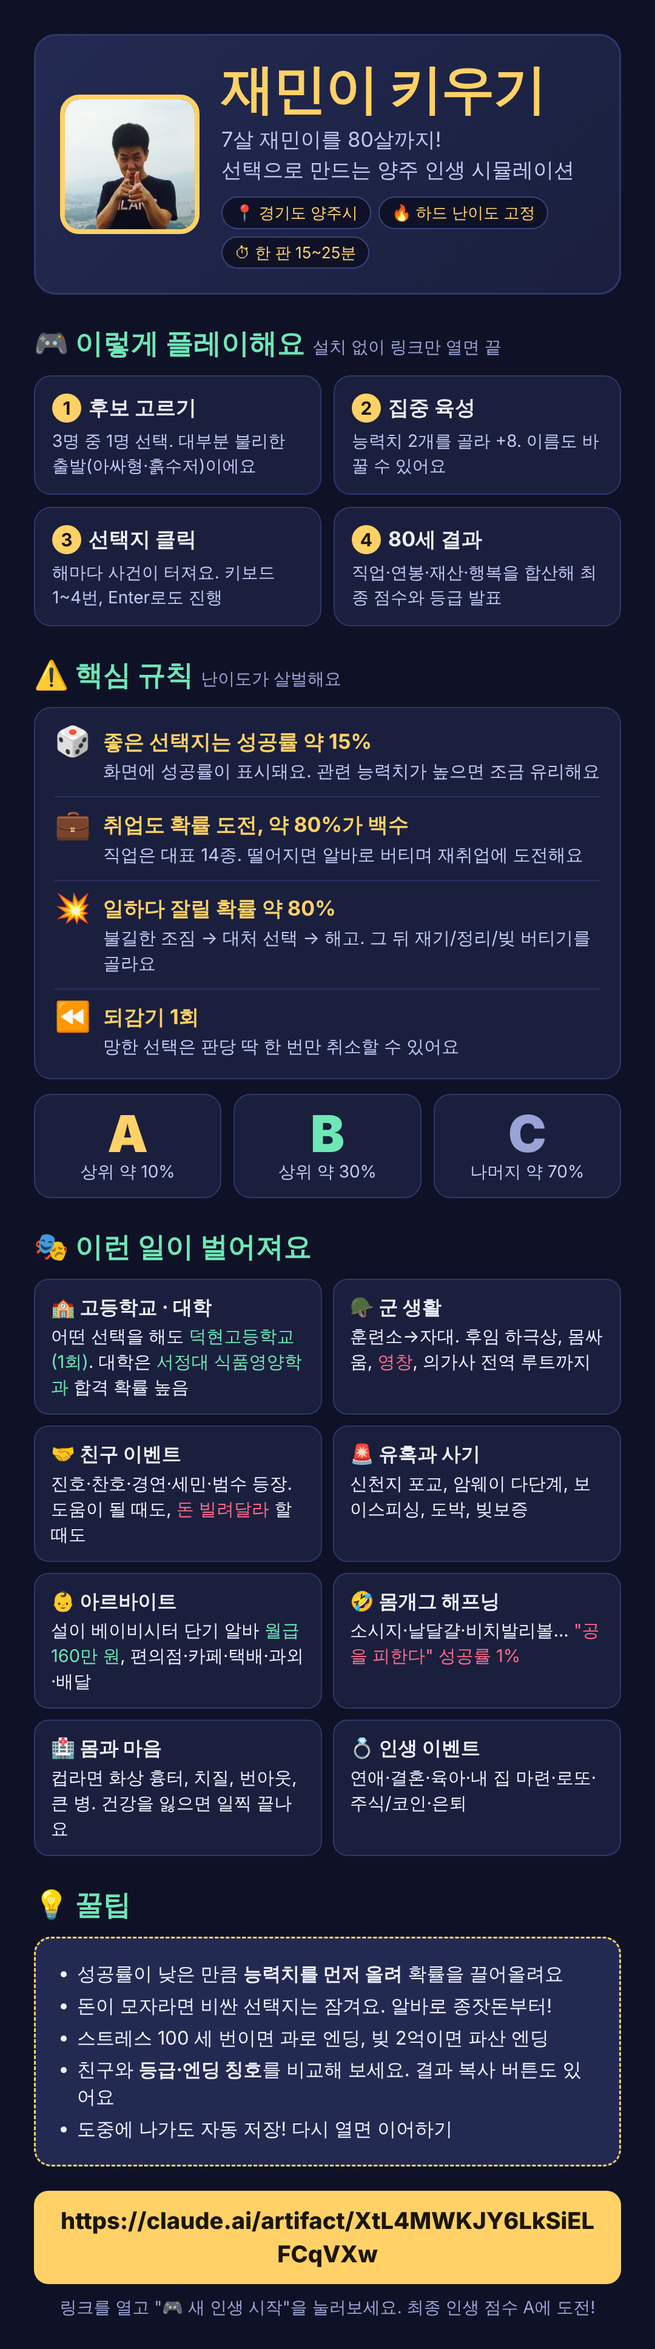
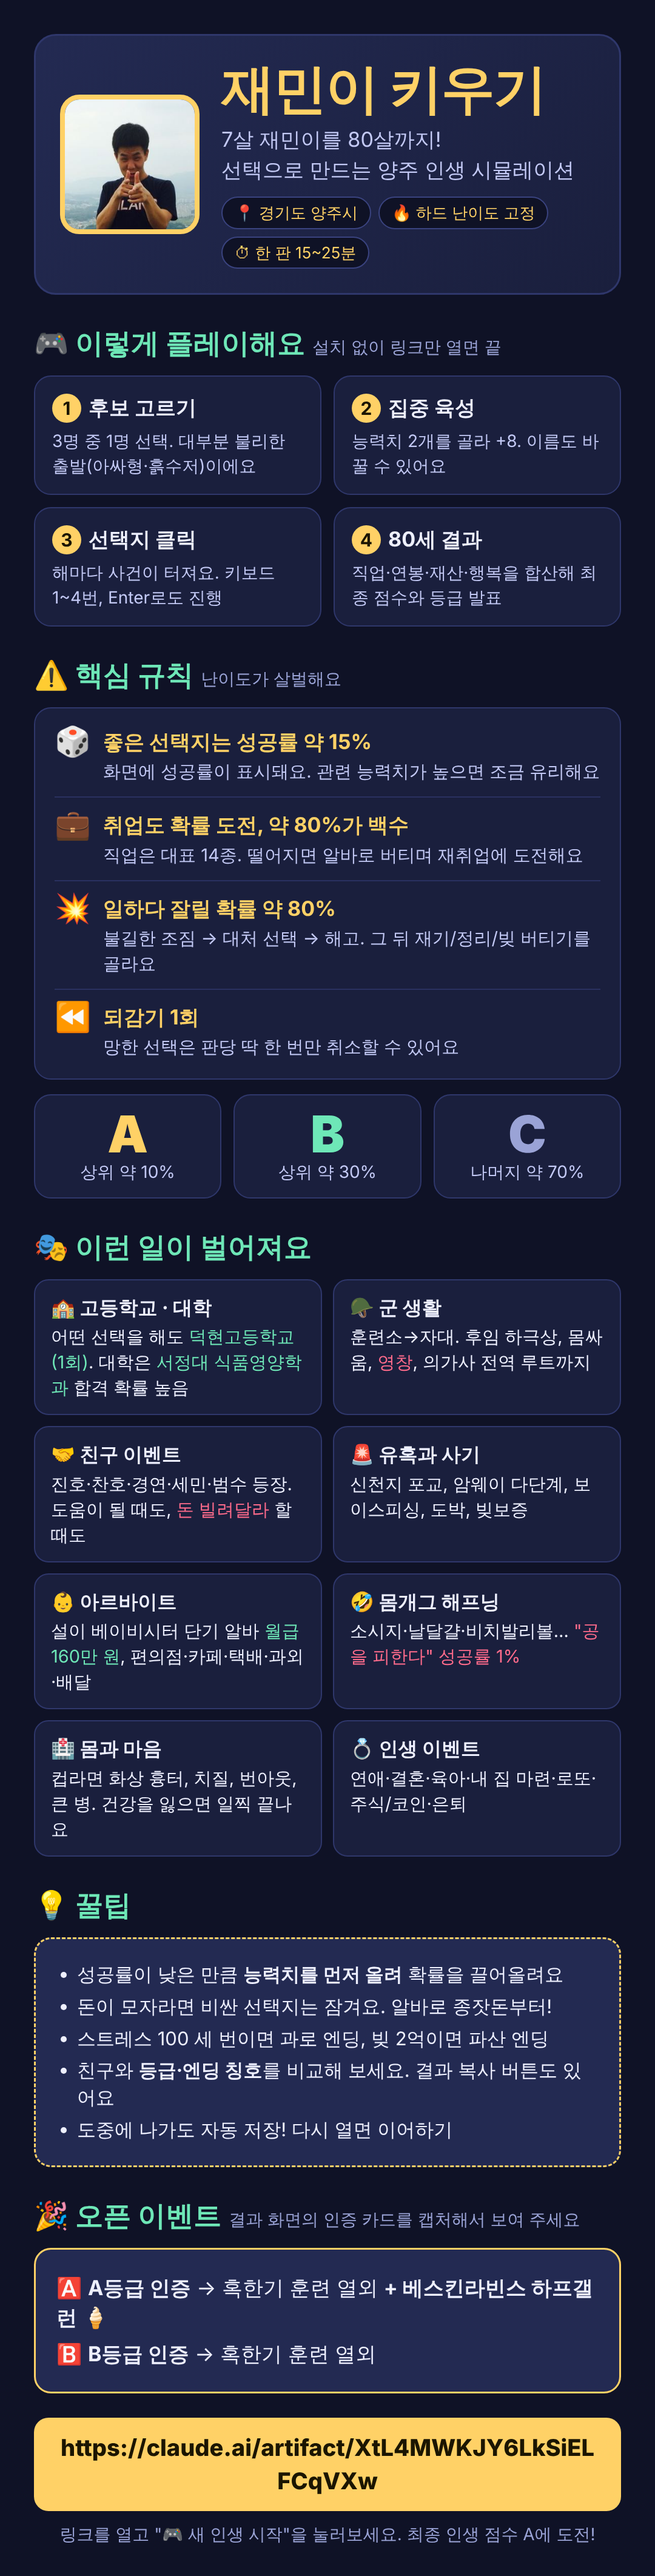
오픈 이벤트(A: 혹한기 열외+하프갤런, B: 열외) 배너·인증 카드, 설명서 갱신
Claude-Session: https://claude.ai/code/session_01KcVp1sZmDzAR7Cn2msBevK

diff --git a/index.html b/index.html
@@ -56,6 +56,12 @@ table{width:100%;border-collapse:collapse;font-size:13px}td,th{padding:4px 6px;b
 .avp .gray{position:absolute;left:-10px;bottom:-10px;font-size:24px;background:var(--card);border-radius:50%;width:36px;height:36px;display:flex;align-items:center;justify-content:center}
 .big-av .avp{margin:22px auto 8px}
 .cmt{margin:10px 0;padding:12px 14px;border-left:5px solid var(--ac);background:var(--card2);border-radius:10px;font-weight:700;font-size:17px}
+.evt{border:3px solid var(--ac);background:linear-gradient(135deg,var(--card2),var(--card));border-radius:16px;padding:16px;margin:10px 0}
+.evt h3{margin:0 0 6px;font-size:21px;color:var(--ac)}
+.evt p{margin:4px 0;font-size:17px}
+.evt .rw{display:block;margin-top:6px;padding:8px 12px;background:var(--bg);border-radius:10px;font-weight:700;font-size:17px}
+.cert{border:3px dashed var(--ac2);border-radius:16px;padding:16px;margin:10px 0;text-align:center;background:var(--card)}
+.cert .code{font-family:ui-monospace,Menlo,monospace;font-size:22px;letter-spacing:2px;color:var(--ac)}
 /* 큰 글씨 */
 body{font-size:18px;line-height:1.6}
 #app{max-width:640px}
@@ -1168,9 +1174,10 @@ function endView(){
     META.ranks.sort((a,b)=>b.score-a.score);META.ranks=META.ranks.slice(0,20);checkAch();saveMeta();try{localStorage.removeItem('jmk_save')}catch(e){}}
   sc.grade==='F'||S.over&&S.over!=='natural'?sBad():sGood();
   const ach=Object.keys(S.runAch).map(id=>ACH.find(a=>a[0]===id)[1]);
-  const share=`🧒 재민이 키우기 | ${S.name} (${S.age}세) | 등급 ${sc.grade} · ${sc.total}점 | ${en[1]} | 직업 ${S.job&&S.job!=='none'?JOBS[S.job].n:'없음'} | 순자산 ${fmt(net())} | 연봉 최고 ${fmt(S.peakS)}`;
+  const share=`🧒 재민이 키우기 | ${S.name} (${S.age}세) | 등급 ${sc.grade} · ${sc.total}점 | ${en[1]} | ${sc.grade==='A'?'🎁 A인증(열외+하프갤런) '+stampCode(S.name,sc.total,S.age,sc.grade):sc.grade==='B'?'🎁 B인증(열외) '+stampCode(S.name,sc.total,S.age,sc.grade):'이벤트 도전 중'} | 직업 ${S.job&&S.job!=='none'?JOBS[S.job].n:'없음'} | 순자산 ${fmt(net())} | 연봉 최고 ${fmt(S.peakS)}`;
   $('#main').innerHTML=`<div class="card center"><div class="big-av">${avatar(210)}</div><div class="mut">최종 인생 점수</div><div class="grade">${sc.grade}</div><h2>${sc.total}점</h2>
   <div style="font-size:40px">${en[0]}</div><h2>${en[1]}</h2><p class="mut">${en[2]}</p></div>
+  ${evtCard(sc,en)}
   <div class="card"><b>📊 점수 내역</b>${sc.parts.map(([n,v,mx])=>`<div class="sbar"><span>${n}</span><div class="bar"><i class="${v<0?'sts':''}" style="width:${mx?clamp(v/mx*100,0,100):clamp(Math.abs(v),0,100)}%"></i></div><b>${Math.round(v)}</b></div>`).join('')}
   <div class="mut" style="margin-top:6px">${S.over&&S.over!=='natural'?'⚠ 조기 종료 엔딩 (페널티 적용)':'80세까지 완주!'} · 환생 포인트 보유 ${META.pts}</div></div>
   <div class="card"><b>🏆 이번 인생의 업적 (${ach.length})</b><p class="mut">${ach.join(' · ')||'없음'}</p></div>
@@ -1181,6 +1188,25 @@ function endView(){
   $('#shr').onclick=()=>{try{navigator.clipboard.writeText(share);toast('복사했어요!')}catch(e){prompt('복사하세요',share)}};
   $('#rk').onclick=()=>{VIEW='rank';rankView()};
 }
+/* 오픈 이벤트 인증 카드: 이름·점수·날짜로 만든 도장 코드(화면 캡처용) */
+function stampCode(name,score,age,grade){
+  const t=`${name}|${score}|${age}|${grade}|${new Date().toISOString().slice(0,10)}`;
+  let h=2166136261;for(const c of t){h^=c.charCodeAt(0);h=Math.imul(h,16777619)>>>0}
+  return 'JM-'+h.toString(36).toUpperCase().padStart(7,'0').slice(0,7);
+}
+function evtCard(sc,en){
+  const d=new Date().toLocaleDateString('ko-KR');
+  if(sc.grade==='A'||sc.grade==='B'){
+    const rw=sc.grade==='A'?'혹한기 훈련 열외 + 베스킨라빈스 하프갤런 🍦':'혹한기 훈련 열외';
+    return `<div class="cert"><div class="mut">🎉 재민이 게임 오픈 이벤트</div>
+     <h2>${sc.grade}등급 인증!</h2>
+     <p><b>${esc(S.name)}</b> · ${sc.total}점 · ${S.age}세 · ${esc(en[1])}</p>
+     <div class="evt" style="margin:10px 0"><span class="rw" style="margin:0">🎁 ${rw}</span></div>
+     <div class="code">${stampCode(S.name,sc.total,S.age,sc.grade)}</div>
+     <p class="mut">${d} · 이 카드를 캡처해서 재민이에게 보여 주세요!</p></div>`;
+  }
+  return `<div class="evt"><h3>🎉 오픈 이벤트</h3><p>아쉽지만 C등급이에요. <b>B등급 이상</b>이면 혹한기 훈련 열외!<br>A등급이면 베스킨라빈스 하프갤런까지 🍦</p><p class="mut">다시 키우기로 재도전하세요!</p></div>`;
+}
 function rankView(){
   const rk=META.ranks;
   $('#main').innerHTML=`<div class="card"><h2>🏅 내 기기 랭킹 TOP ${rk.length}</h2>${rk.length?`<table><tr><th>#</th><th>이름</th><th>점수</th><th>등급</th><th>엔딩</th></tr>${rk.map((r,i)=>`<tr><td>${i+1}</td><td>${esc(r.name)}</td><td>${r.score}</td><td>${r.grade}</td><td>${esc(r.title)}</td></tr>`).join('')}</table>`:'<p class="mut">아직 기록이 없어요. 한 번 키워보세요!</p>'}
@@ -1189,7 +1215,7 @@ function rankView(){
   <button class="btn pri" id="back">◀ 돌아가기</button>`;
   $('#back').onclick=()=>{VIEW=S&&S.over?'play':'title';render()};
 }
-const FEATURES=['시작 후보 3명 중 선택(불리한 출발 80% : 좋은 출발 20%, 아싸형·불우한 환경 위주)','집중 육성 능력치 2개','태어난 집안(금수저/평범/흙수저)','숨은 재능 8종(천재, 강골, 행운아, 불운의 아이 등)','오늘의 운세(날짜별 확률 보정)','하드 난이도 고정(성공률 대폭 하향: 전체 ×0.75 -8%, 관련 능력치가 낮으면 더 불리, 스트레스 ×1.4, 지출 ×1.3)','재미있게 공부한다(머리가 안 따라주면 실패) 등 능력치 의존 도전 선택지','정상 만기 전역도 확률 도전(실패하면 적응 위기 → 도움 요청 → 의가사 루트)','환생 포인트로 능력치 보너스','7~80세 나이별 아바타 변화','시즌(해)마다 스트레스·행복 자동 변동','확률 도전 선택지(성공률 표시)','능력치에 따른 성공률 보정','학원/동아리/연애 등 성장기 이벤트 15종','수능 결과 → 대학 선택 → 재수','군대 이벤트(카투사 도전)','대표 직업 14종 + 백수(의사·변호사·개발자·대기업·공무원·교사·중소기업·경찰/소방·직업군인·요리사·유튜버·연예인·운동선수·창업가), 능력·학력 요건 잠금','입사 연봉 협상 미니게임','정기 연봉 협상(성과/이직 카드)','승진 심사와 직급 체계','이직 제안','갑질 상사/구조조정','가변 소득 직업(유튜버·연예인·창업가 등)','운동선수 전성기·은퇴 기로','부업 이벤트','주식/코인 투자(변동성 시뮬)','경제 위기·대세상승장 이벤트','내 집 마련(영끌)','로또(2% 당첨)','보이스피싱','빚보증 / 사촌의 투자 권유','도박 중독과 단도박 이벤트','창업 대박 아이디어','유튜브 채널 개설','국회의원 출마(히든 루트)','소개팅 → 연애 → 프러포즈 → 결혼','자녀 시스템과 육아·입시','이혼 위기','반려동물 입양','여행/취미/동창회 이벤트','건강검진·큰 병·교통사고','번아웃 3회 시 과로 엔딩','유산 상속','부모님 간병','정년퇴임과 연금','손주 탄생','마지막 선택(기부/가족/탕진)','24개 업적과 도감','엔딩 칭호 16종(성공·평범·망한 인생)','과거로 돌아가기(되감기 1회)','등급 A/B/C(목표 비율 1:2:7) + 점수 항목별 그래프','인생 이야기 타임라인','로컬 랭킹 TOP20','결과 공유 텍스트 복사','자동 저장·이어하기·파일 내보내기/가져오기','효과음 & 라이트/다크 테마','키보드 단축키(1~4, Enter)','실명 친구 4인(이진호·이찬호·김경연·박세민) 사귐/거절 이벤트와 후속 이벤트','친구 둘 이상 사귀면 사총사 모임 발생','신천지 포교 → 탈퇴 시도 연계 이벤트','암웨이(다단계) 가입 → 재고 처리 연계 이벤트','여자친구를 따라 부산으로 이사 이벤트','인형뽑기·코인노래방·UFO·점집·치킨집·헬스장 등 소소한 선택지','군 복무 연쇄 이벤트(훈련소→자대→중반→전역)','군 적응 위기 시 도움 요청 선택지와 상담전화 안내','의가사 전역 루트와 전역 후 마음 돌보기 이벤트','후임 하극상 → 몸싸움 → 징계/영창 연쇄 이벤트','경기도 양주시 배경 이벤트(덕정역 출퇴근·나리공원·불곡산·별산대놀이·장흥·옥정/회천 신도시)','기분 좋아서 쏘다가 지갑 털리는 이벤트(하프갤런·피자·치킨)','몸개그 해프닝(오이고추 가방·소시지·날달걀·비치발리볼·방귀)','화상 흉터 이벤트(컵라면·치킨 튀김 알바)','전범수와의 말싸움 이벤트','같은 반 친구와 눈 마주치는 순한 짝사랑 이벤트','재민이 사진이 모든 화면에 등장(로고·시작·캐릭터 만들기·7세부터 80세까지·결과)하고 직업·나이·기분·상황에 따라 사진과 모자/소품/테두리 변화','일하다 잘리는 스토리(직업을 가진 사람의 약 80%): 불길한 조짐 → 대처 선택 → 해고(폐업·권고사직·슬럼프·징계 등) → 재기/정리/빚 버티기','친구에게 돈 빌려주기(100만/500만/3000만) + 못 받은 돈 독촉 후속 이벤트','모든 선택지가 확률 도전(성공하면 원래 효과, 실패하면 역효과) · 창의적 초저확률 선택지(공을 피한다 1% 등)','늦잠·소나기·지하철 자리·가챠·층간소음·회식 폭탄주·타이어 펑크 등 신규 해프닝 8종','취업도 확률 도전(성공률 약 55%, 낮은 능력치면 더 낮음) · 실패하면 백수, 이후 재취업 도전 이벤트 · 약 80%가 백수로 사는 하드 난이도','아르바이트 이벤트(설이 베이비시터 단기알바 월급 160, 편의점·카페·택배·과외·배달 등)','모든 좋은 선택지는 극악 확률(약 15%)','치질(항문이 아픈) 스토리: 병원/좌욕/참기 선택 → 방치하면 수술 후속 이벤트','고교는 어떤 선택이든 덕현고등학교(1회) 입학 · 수능 후 서정대학교 식품영양학과(합격률 85%) 선택지','결과 멘트 자극적·웃기게 전면 개편(상황별 실패 멘트 50여 종 + 결과마다 💬 해설 한마디 + 성공 멘트 110여 개 재작성)','파산 기준 완화(빚 5억) · 백수 생활비 완화(40세부터, 부담 절반 이하) · 체력 노화 속도 완화로 80세 완주 비율 상승','일상 코미디 이벤트 2탄 18종(종점 버스·배달 오배송·폰 분실·길거리 캐스팅·결혼식·캠핑·당근마켓·다이어트·바퀴벌레·방송 사고·돼지꿈 등)'];
+const FEATURES=['시작 후보 3명 중 선택(불리한 출발 80% : 좋은 출발 20%, 아싸형·불우한 환경 위주)','집중 육성 능력치 2개','태어난 집안(금수저/평범/흙수저)','숨은 재능 8종(천재, 강골, 행운아, 불운의 아이 등)','오늘의 운세(날짜별 확률 보정)','하드 난이도 고정(성공률 대폭 하향: 전체 ×0.75 -8%, 관련 능력치가 낮으면 더 불리, 스트레스 ×1.4, 지출 ×1.3)','재미있게 공부한다(머리가 안 따라주면 실패) 등 능력치 의존 도전 선택지','정상 만기 전역도 확률 도전(실패하면 적응 위기 → 도움 요청 → 의가사 루트)','환생 포인트로 능력치 보너스','7~80세 나이별 아바타 변화','시즌(해)마다 스트레스·행복 자동 변동','확률 도전 선택지(성공률 표시)','능력치에 따른 성공률 보정','학원/동아리/연애 등 성장기 이벤트 15종','수능 결과 → 대학 선택 → 재수','군대 이벤트(카투사 도전)','대표 직업 14종 + 백수(의사·변호사·개발자·대기업·공무원·교사·중소기업·경찰/소방·직업군인·요리사·유튜버·연예인·운동선수·창업가), 능력·학력 요건 잠금','입사 연봉 협상 미니게임','정기 연봉 협상(성과/이직 카드)','승진 심사와 직급 체계','이직 제안','갑질 상사/구조조정','가변 소득 직업(유튜버·연예인·창업가 등)','운동선수 전성기·은퇴 기로','부업 이벤트','주식/코인 투자(변동성 시뮬)','경제 위기·대세상승장 이벤트','내 집 마련(영끌)','로또(2% 당첨)','보이스피싱','빚보증 / 사촌의 투자 권유','도박 중독과 단도박 이벤트','창업 대박 아이디어','유튜브 채널 개설','국회의원 출마(히든 루트)','소개팅 → 연애 → 프러포즈 → 결혼','자녀 시스템과 육아·입시','이혼 위기','반려동물 입양','여행/취미/동창회 이벤트','건강검진·큰 병·교통사고','번아웃 3회 시 과로 엔딩','유산 상속','부모님 간병','정년퇴임과 연금','손주 탄생','마지막 선택(기부/가족/탕진)','24개 업적과 도감','엔딩 칭호 16종(성공·평범·망한 인생)','과거로 돌아가기(되감기 1회)','등급 A/B/C(목표 비율 1:2:7) + 점수 항목별 그래프','인생 이야기 타임라인','로컬 랭킹 TOP20','결과 공유 텍스트 복사','자동 저장·이어하기·파일 내보내기/가져오기','효과음 & 라이트/다크 테마','키보드 단축키(1~4, Enter)','실명 친구 4인(이진호·이찬호·김경연·박세민) 사귐/거절 이벤트와 후속 이벤트','친구 둘 이상 사귀면 사총사 모임 발생','신천지 포교 → 탈퇴 시도 연계 이벤트','암웨이(다단계) 가입 → 재고 처리 연계 이벤트','여자친구를 따라 부산으로 이사 이벤트','인형뽑기·코인노래방·UFO·점집·치킨집·헬스장 등 소소한 선택지','군 복무 연쇄 이벤트(훈련소→자대→중반→전역)','군 적응 위기 시 도움 요청 선택지와 상담전화 안내','의가사 전역 루트와 전역 후 마음 돌보기 이벤트','후임 하극상 → 몸싸움 → 징계/영창 연쇄 이벤트','경기도 양주시 배경 이벤트(덕정역 출퇴근·나리공원·불곡산·별산대놀이·장흥·옥정/회천 신도시)','기분 좋아서 쏘다가 지갑 털리는 이벤트(하프갤런·피자·치킨)','몸개그 해프닝(오이고추 가방·소시지·날달걀·비치발리볼·방귀)','화상 흉터 이벤트(컵라면·치킨 튀김 알바)','전범수와의 말싸움 이벤트','같은 반 친구와 눈 마주치는 순한 짝사랑 이벤트','재민이 사진이 모든 화면에 등장(로고·시작·캐릭터 만들기·7세부터 80세까지·결과)하고 직업·나이·기분·상황에 따라 사진과 모자/소품/테두리 변화','일하다 잘리는 스토리(직업을 가진 사람의 약 80%): 불길한 조짐 → 대처 선택 → 해고(폐업·권고사직·슬럼프·징계 등) → 재기/정리/빚 버티기','친구에게 돈 빌려주기(100만/500만/3000만) + 못 받은 돈 독촉 후속 이벤트','모든 선택지가 확률 도전(성공하면 원래 효과, 실패하면 역효과) · 창의적 초저확률 선택지(공을 피한다 1% 등)','늦잠·소나기·지하철 자리·가챠·층간소음·회식 폭탄주·타이어 펑크 등 신규 해프닝 8종','취업도 확률 도전(성공률 약 55%, 낮은 능력치면 더 낮음) · 실패하면 백수, 이후 재취업 도전 이벤트 · 약 80%가 백수로 사는 하드 난이도','아르바이트 이벤트(설이 베이비시터 단기알바 월급 160, 편의점·카페·택배·과외·배달 등)','모든 좋은 선택지는 극악 확률(약 15%)','치질(항문이 아픈) 스토리: 병원/좌욕/참기 선택 → 방치하면 수술 후속 이벤트','고교는 어떤 선택이든 덕현고등학교(1회) 입학 · 수능 후 서정대학교 식품영양학과(합격률 85%) 선택지','결과 멘트 자극적·웃기게 전면 개편(상황별 실패 멘트 50여 종 + 결과마다 💬 해설 한마디 + 성공 멘트 110여 개 재작성)','파산 기준 완화(빚 5억) · 백수 생활비 완화(40세부터, 부담 절반 이하) · 체력 노화 속도 완화로 80세 완주 비율 상승','오픈 이벤트: A등급 인증 → 혹한기 훈련 열외 + 베스킨라빈스 하프갤런 / B등급 인증 → 혹한기 훈련 열외 (시작 화면 배너 + 결과 인증 카드·도장 코드)','일상 코미디 이벤트 2탄 18종(종점 버스·배달 오배송·폰 분실·길거리 캐스팅·결혼식·캠핑·당근마켓·다이어트·바퀴벌레·방송 사고·돼지꿈 등)'];
 function info(){
   $('#main').innerHTML=`<div class="card"><h2>✨ 추가된 재미 요소 ${FEATURES.length}가지</h2><ol style="padding-left:18px;font-size:14px">${FEATURES.map(f=>`<li>${f}</li>`).join('')}</ol></div><button class="btn pri" id="back">◀ 돌아가기</button>`;
   $('#back').onclick=()=>{VIEW='title';render()};
@@ -1199,6 +1225,11 @@ function title(){
   $('#main').innerHTML=`<div class="card center"><div style="display:flex;justify-content:center;gap:14px;align-items:center;margin-top:10px"><img src="${PH.main}" alt="재민" width="96" height="96" style="border-radius:18px;border:3px solid var(--ac)"><span style="font-size:34px">➡</span><img src="${PH.joy}" alt="재민" width="96" height="96" style="border-radius:18px;border:3px solid var(--ac2)"></div><h2>재민이 키우기</h2>
   <p class="mut">📍 대한민국 경기도 양주시 · 7살 재민이의 선택이 80살의 인생을 만든다.<br>직업도, 연봉도, 점수도 모두 당신의 선택!</p>
   <p>🔮 오늘의 운세: <b>${f[0]}</b> ${f[1]}<br><span class="mut">${f[3]}</span></p></div>
+  <div class="evt"><h3>🎉 재민이 게임 오픈 이벤트!</h3>
+   <p>최종 등급을 <b>인증</b>하면 선물이 팡팡!</p>
+   <span class="rw">🅰 A등급 인증 → 혹한기 훈련 열외 + 베스킨라빈스 하프갤런 🍦</span>
+   <span class="rw">🅱 B등급 인증 → 혹한기 훈련 열외</span>
+   <p class="mut">결과 화면의 인증 카드를 캡처해서 재민이에게 보여 주세요.</p></div>
   <button class="btn pri" id="nw">🎮 새 인생 시작</button>
   ${sv&&sv.v?`<button class="btn" id="cont">▶ 이어하기 (${esc(sv.name)} · ${sv.age}세)</button>`:''}
   <div class="row"><button class="btn c" id="rk">🏅 랭킹/업적</button><button class="btn c" id="inf">✨ 재미 요소</button></div>

diff --git a/README.md b/README.md
@@ -5,7 +5,7 @@
 - 실행: `index.html`을 브라우저로 열면 끝 (설치/서버 불필요, 한 판 약 15~25분)
 - 참고: kickru.com "벤치에서 발롱까지"의 흐름(후보 선택 → 시즌 진행+선택 사건 → 은퇴 후 인생 정리·랭킹·자동저장)을 인생 시뮬레이션으로 옮김
 
-## 추가된 재미 요소 86가지
+## 추가된 재미 요소 87가지
 
 1. 시작 후보 3명 중 선택(불리한 출발 80% : 좋은 출발 20%, 아싸형·불우한 환경 위주)
 2. 집중 육성 능력치 2개
@@ -92,4 +92,5 @@
 83. 고교는 어떤 선택이든 덕현고등학교(1회) 입학 · 수능 후 서정대학교 식품영양학과(합격률 85%) 선택지
 84. 결과 멘트 자극적·웃기게 전면 개편(상황별 실패 멘트 50여 종 + 결과마다 💬 해설 한마디 + 성공 멘트 110여 개 재작성)
 85. 파산 기준 완화(빚 5억) · 백수 생활비 완화(40세부터, 부담 절반 이하) · 체력 노화 속도 완화로 80세 완주 비율 상승
-86. 일상 코미디 이벤트 2탄 18종(종점 버스·배달 오배송·폰 분실·길거리 캐스팅·결혼식·캠핑·당근마켓·다이어트·바퀴벌레·방송 사고·돼지꿈 등)
+86. 오픈 이벤트: A등급 인증 → 혹한기 훈련 열외 + 베스킨라빈스 하프갤런 / B등급 인증 → 혹한기 훈련 열외 (시작 화면 배너 + 결과 인증 카드·도장 코드)
+87. 일상 코미디 이벤트 2탄 18종(종점 버스·배달 오배송·폰 분실·길거리 캐스팅·결혼식·캠핑·당근마켓·다이어트·바퀴벌레·방송 사고·돼지꿈 등)
